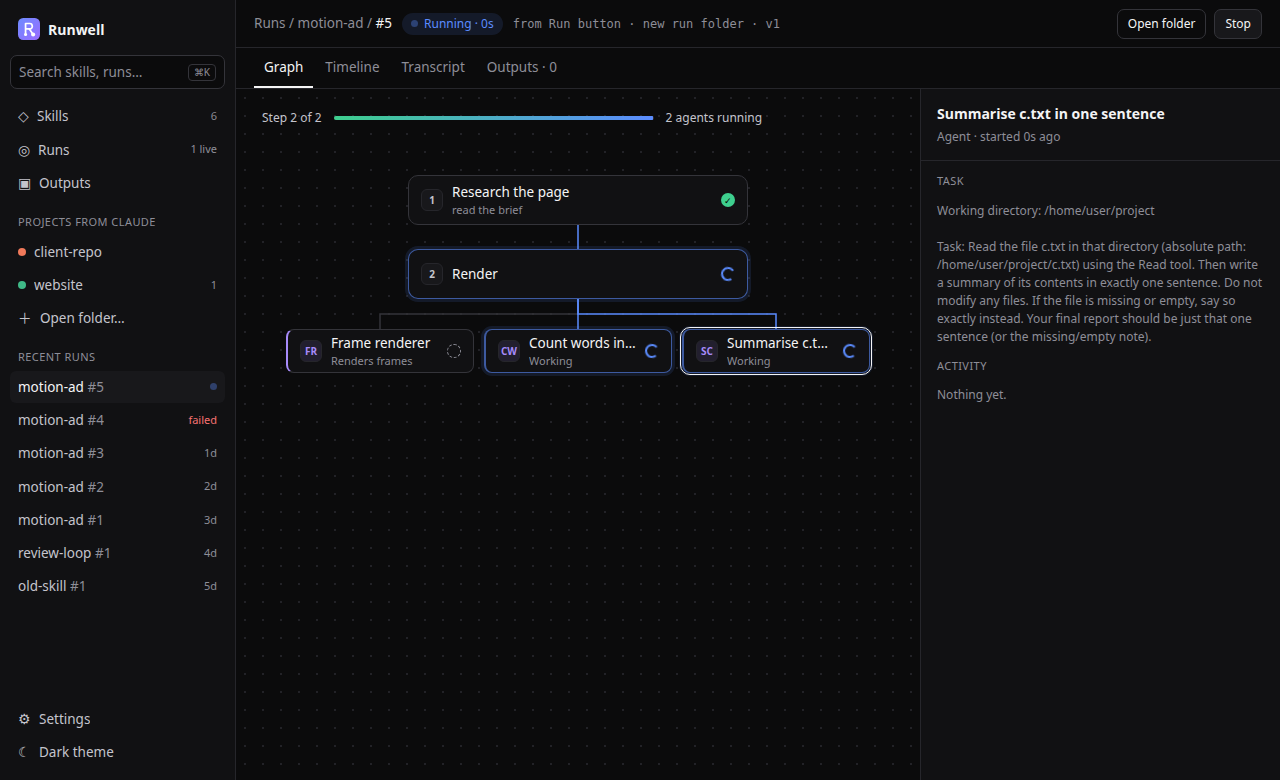
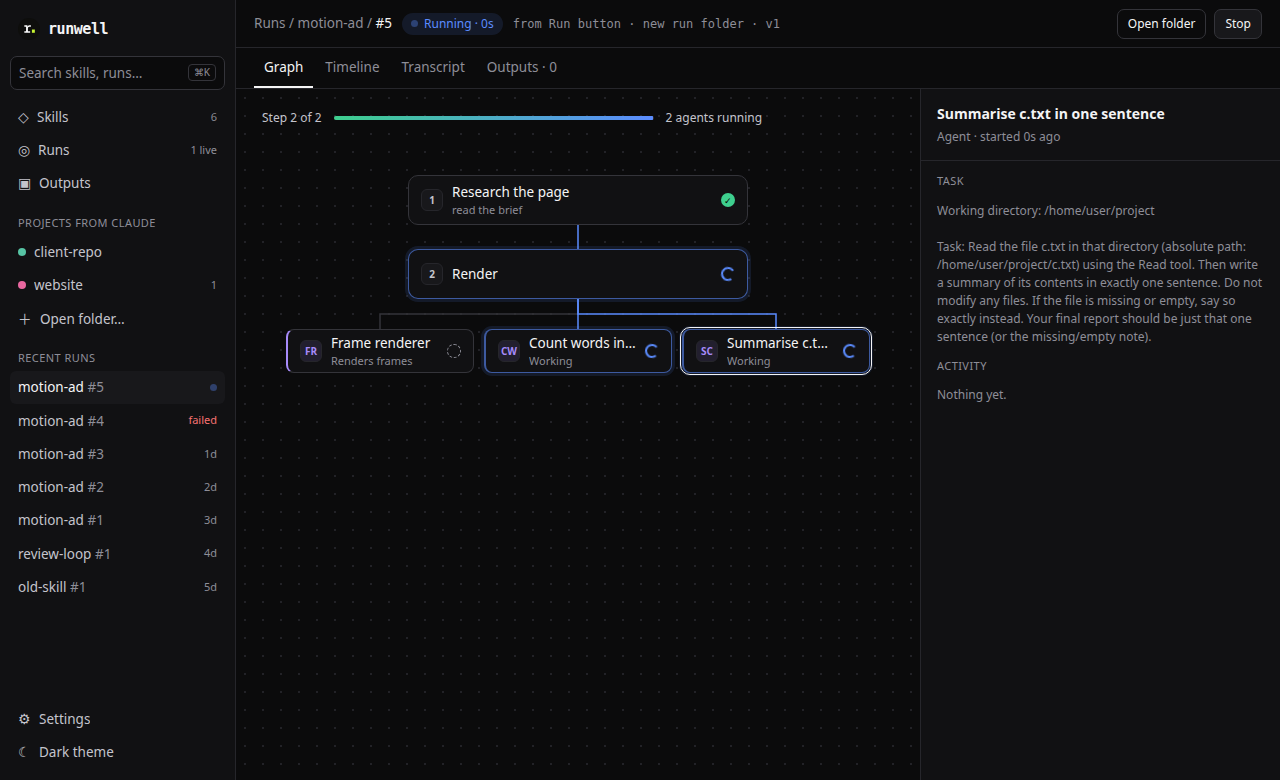
feat: new mark, a monospace r with a block cursor; wordmark in Geist Mono

diff --git a/web/src/components/logo.tsx b/web/src/components/logo.tsx
@@ -1,23 +1,4 @@
-import { useId } from "react";
-
-/** Runwell's icon: an R traced by a run (steps down a spine, a loop back, a branch out to the result). */
+/** Runwell's mark: a monospace r with a block cursor, as if something is running. Same file as the favicon. */
 export function Logo({ size = 20, className }: { size?: number; className?: string }) {
-  const id = `rw-g-${useId().replace(/:/g, "")}`;
-  return (
-    <svg className={className} width={size} height={size} viewBox="0 0 64 64" aria-hidden focusable="false">
-      <defs>
-        <linearGradient id={id} x1="0" y1="0" x2="1" y2="1">
-          <stop offset="0" stopColor="#6d8cff" />
-          <stop offset="1" stopColor="#9a6bff" />
-        </linearGradient>
-      </defs>
-      <rect width="64" height="64" rx="15" fill={`url(#${id})`} />
-      <g fill="none" stroke="#fff" strokeWidth="5" strokeLinecap="round" strokeLinejoin="round">
-        <path d="M22 48V16h12.5c8.5 0 10.5 15 0 15.5H22" />
-        <path d="M32.5 31.5 44 48" />
-      </g>
-      <circle cx="22" cy="48" r="4.5" fill="#fff" />
-      <circle cx="44" cy="48" r="6" fill="#fff" />
-    </svg>
-  );
+  return <img className={className} src="/favicon.svg" width={size} height={size} alt="" aria-hidden draggable={false} />;
 }

diff --git a/web/src/components/sidebar.tsx b/web/src/components/sidebar.tsx
@@ -34,7 +34,7 @@ export function Sidebar({ onSearch }: { onSearch: () => void }) {
     <aside className="side" aria-label="Sidebar">
       <div className="ws">
         <Logo size={22} className="logo" />
-        Runwell
+        <span className="ws-name">runwell</span>
       </div>
       <button className="search" onClick={onSearch} type="button">
         <span>Search skills, runs…</span>

diff --git a/web/src/shell.css b/web/src/shell.css
@@ -21,6 +21,12 @@
   font-weight: 600;
   font-size: 14px;
 }
+.ws-name {
+  font-family: "Geist Mono", "JetBrains Mono", ui-monospace, SFMono-Regular, Menlo, monospace;
+  font-weight: 700;
+  font-size: 15px;
+  letter-spacing: -0.03em;
+}
 .logo {
   flex-shrink: 0;
   display: block;

diff --git a/docs/assets/brand/type-study/README.md b/docs/assets/brand/type-study/README.md
@@ -1,0 +1,11 @@
+# Type study
+
+Runwell uses the terminal pairing (runwell-icon.svg, runwell-lockup-*.svg in the folder above). The other two are kept for reference.
+
+Marks and wordmarks built from open-source typefaces (SIL Open Font License), converted to paths so the files need no font:
+
+- editorial: Instrument Serif (italic r, and "Runwell")
+- terminal: Geist Mono (r with a block cursor, and "runwell" ending in the cursor); cursor colour #c6f432
+- bold: Bricolage Grotesque ("rw", and "runwell")
+
+`typefaces.png` is the wider first round (Geist, Bricolage, Syne, Space Grotesk, Instrument Serif, DM Serif Display, Geist Mono).
